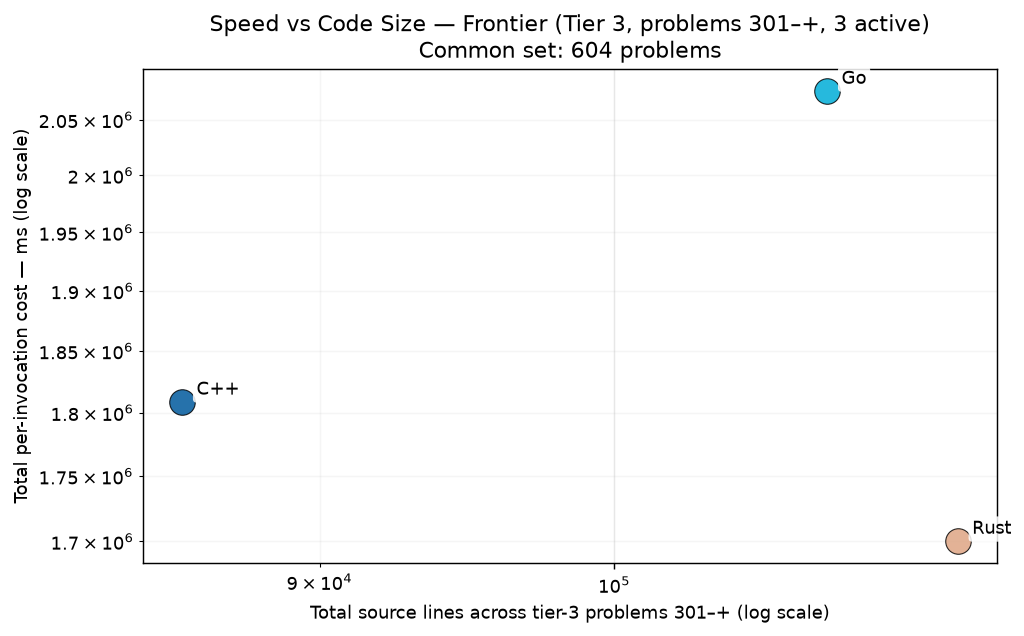
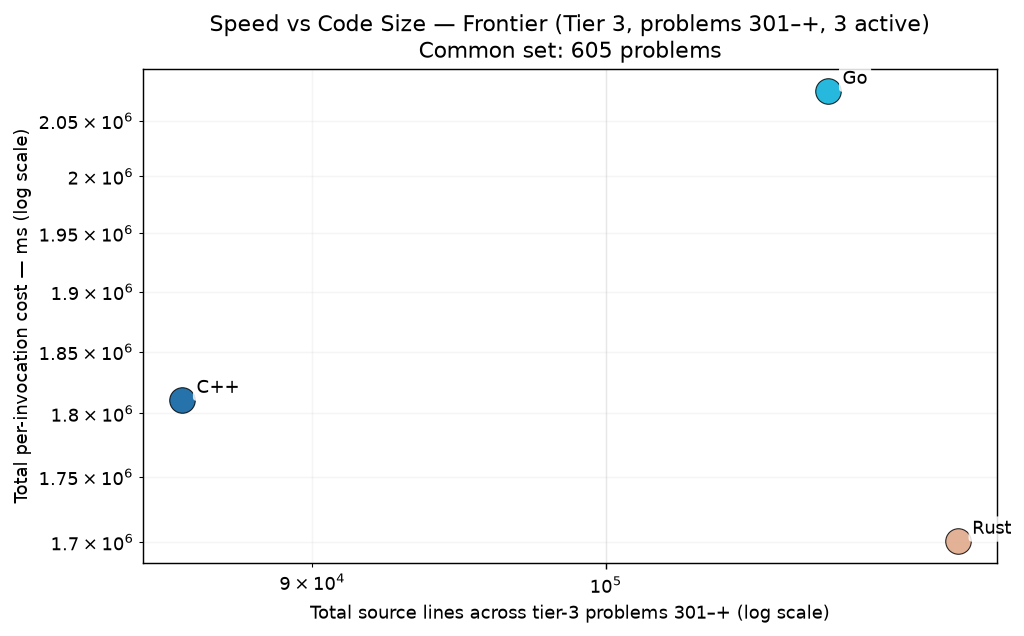
go p0585

diff --git a/RESULTS.md b/RESULTS.md
@@ -1,6 +1,6 @@
 # Project Euler — Cross-Language Benchmarks
 
-> **Scope: 4521 in-scope cells across 1007 problems × tiered languages — 4332 measured (95.8% coverage).**
+> **Scope: 4521 in-scope cells across 1007 problems × tiered languages — 4333 measured (95.8% coverage).**
 > The cross-language ranking below is computed over the **200-problem common set** (problems in 1-200 where every language has a passing measurement) — the apples-to-apples Foundation comparison surface.  Per-tier rankings and coverage detail appear further below.
 > Growing carefully — each new problem and language is audited for state-leak
 > safety, verified for answer correctness, and added only when it cleanly fits the
@@ -70,15 +70,15 @@ Same scatter as the Foundation chart, restricted to the tier-2 active languages 
 
 The frontier verification trio — C++, Go, Rust — on problems above 300. 3-way cross-language agreement is the verification protocol (strictly stronger than 2-way; see JOURNEY.md "Tier Reframing" episode for the p254 lesson that motivated it). Python and Zig are explicitly out of this tier — python's wall cost makes it impractical at level 5+, and zig's role caps at Tier 2.
 
-### Per-Invocation Cost (Common Set, 604 of ≤707 problems in scope)
+### Per-Invocation Cost (Common Set, 605 of ≤707 problems in scope)
 
 ![Per-Invocation Cost — Tier 3](charts/per_iter_total_tier3.png)
 
-| Rank | Language | Geomean (604-problem common set) | Total (sum) | Lines of code | vs Fastest |
+| Rank | Language | Geomean (605-problem common set) | Total (sum) | Lines of code | vs Fastest |
 |------|----------|--------------------:|------------:|--------------:|-----------:|
-| 1 | **C++** | 73.85 ms | 1808.58 s | 85,683 | 1.00× |
-| 2 | **Rust** | 74.61 ms | 1700.24 s | 113,081 | 1.01× |
-| 3 | **Go** | 87.77 ms | 2076.19 s | 107,920 | 1.19× |
+| 1 | **C++** | 74.26 ms | 1810.60 s | 85,887 | 1.00× |
+| 2 | **Rust** | 74.84 ms | 1700.72 s | 113,478 | 1.01× |
+| 3 | **Go** | 88.12 ms | 2077.17 s | 108,317 | 1.19× |
 
 ### Speed vs Code Size
 

diff --git a/per_problem/per_problem_0501-0600.md b/per_problem/per_problem_0501-0600.md
@@ -92,7 +92,7 @@ in tier-1 display order (native → managed → interpreted).
 | **p0582** | 2.97 ms | 2.84 ms | 1.57 ms |
 | **p0583** | 9.51 s | 4.84 s | 59.42 s |
 | **p0584** | 238.74 ms | 210.31 ms | 924.94 ms |
-| **p0585** | 2.02 s | 474.82 ms | — |
+| **p0585** | 2.02 s | 474.82 ms | 980.96 ms |
 | **p0586** | 1.43 s | 14.42 ms | — |
 | **p0587** | 26.9 µs | 24.2 µs~ | 44.2 µs |
 | **p0588** | 675.55 ms | 226.8 µs | 160.8 µs |
